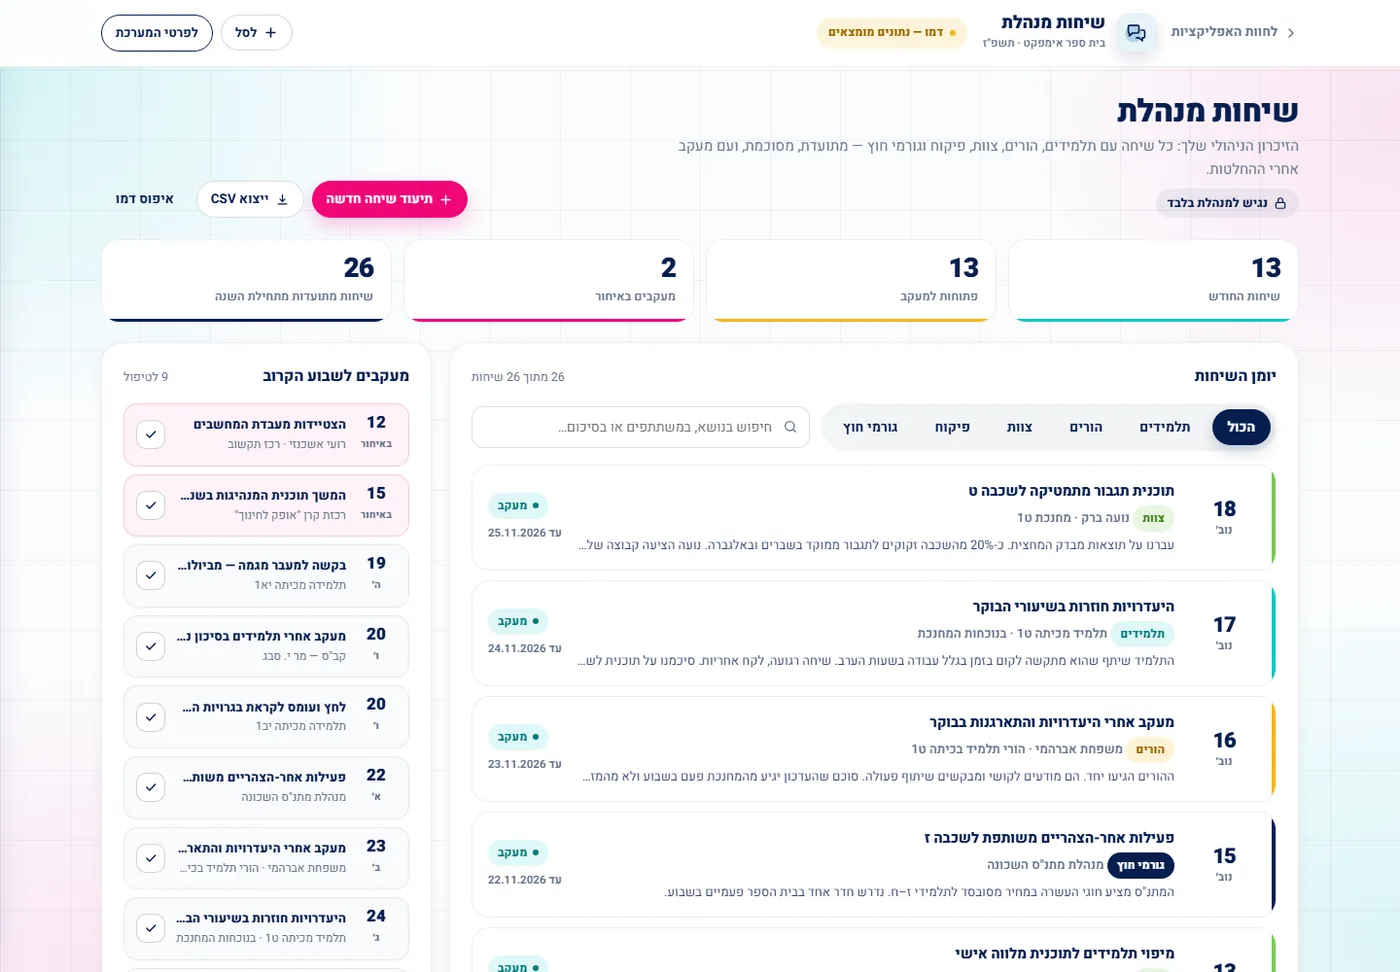
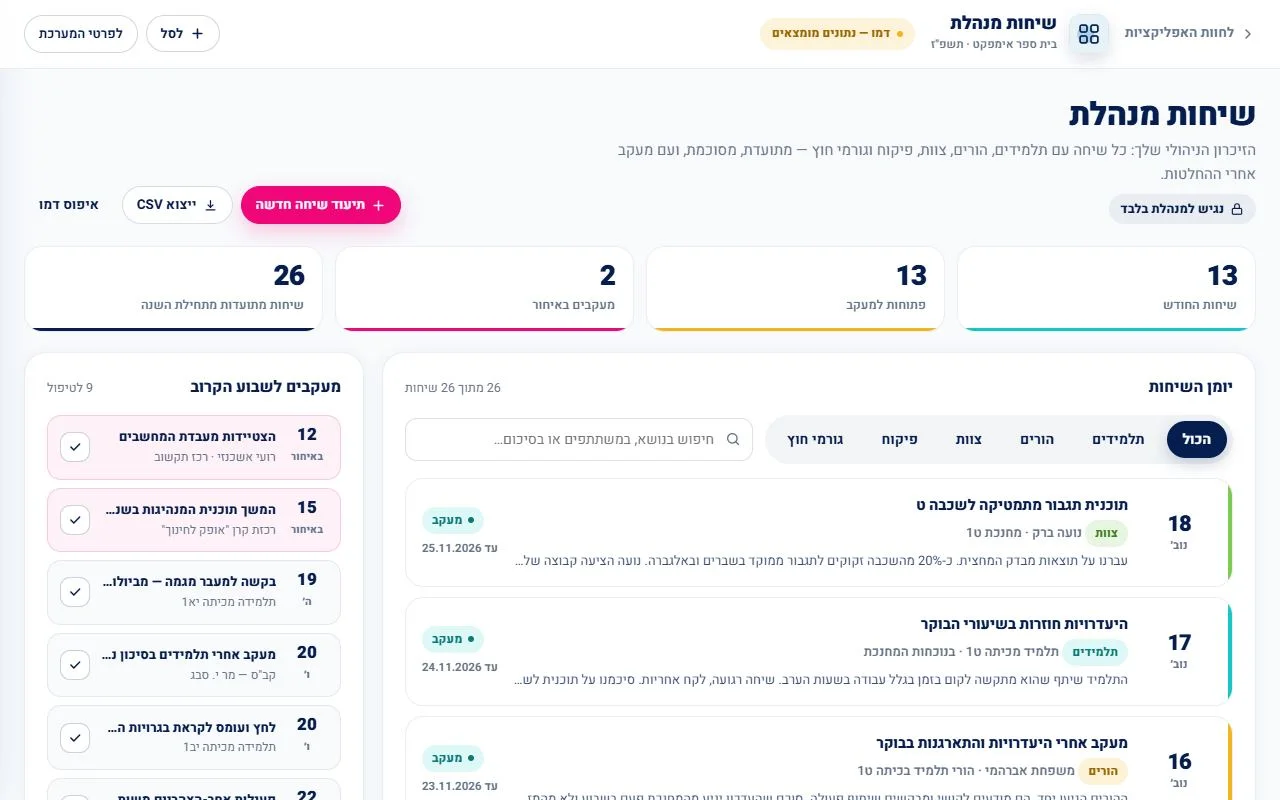
feat(education): כוכבות חוות האפליקציות — 5 מערכות מובילות
- עמוד החינוך, מקטע כלי ניהול: לצד חוות האפליקציות נוספו 5 כרטיסי
  מערכות מובילות (בחירת מיטל): פולס — מדד אקלים · שיחות מנהלת ·
  לוח גאנט בית-ספרי · תכנון משרות ותקנים · מערכת שעות ומילוי מקום.
- דף המוצר של החווה: סקשן חדש 'המערכות המובילות' עם עוגן פר מערכת,
  צילום ותיאור מהקטלוג; הכרטיסים בעמוד החינוך מקשרים אליו.
- צילום חדש למערכת שעות ומילוי מקום (לא היה לה דמו) — נבנה בשפת
  החווה מעולם 'בית ספר אימפקט', מסומן 'דמו — נתונים מומצאים'.
  מקור: pages/demo-timetable.html בריפו המקומי.

diff --git a/site/products/apps-farm.html b/site/products/apps-farm.html
@@ -14,7 +14,8 @@
 <link rel="preconnect" href="https://fonts.gstatic.com" crossorigin>
 <link href="https://fonts.googleapis.com/css2?family=Heebo:wght@300;400;500;600;700;800;900&display=swap" rel="stylesheet">
 <link rel="stylesheet" href="product.css">
-<style>:root{--accent:#061E4F}</style>
+<style>:root{--accent:#061E4F}
+#pulse,#conversations,#gantt,#positions,#timetable{scroll-margin-top:90px}</style>
 </head>
 <body>
 
@@ -81,20 +82,44 @@
   <div class="wrap">
     <div class="psec-head">
       <div class="psec-label">מבפנים</div>
-      <h2>הקטלוג — ושתי מערכות מתוכו</h2>
+      <h2>הקטלוג</h2>
     </div>
     <div class="pgal"><figure>
         <div class="pshot"><img src="../../public/products/apps-farm/catalog.webp" alt="כל המערכות במקום אחד" loading="lazy"></div>
         <figcaption><b>כל המערכות במקום אחד</b> — 63 כלים ב־11 תחומים, עם חיפוש, תגיות ולוגו ייחודי לכל מערכת. מסמנים מה מעניין ומרכיבים סל.</figcaption>
-      </figure>
-      <figure>
-        <div class="pshot"><img src="../../public/products/apps-farm/gantt.webp" alt="לוח גאנט בית-ספרי" loading="lazy"></div>
-        <figcaption><b>לוח גאנט בית-ספרי</b> — כל השנה בשורה אחת: מה קורה, למי, ומי אחראי — כולל אירועים ומטלות ארציים של משרד החינוך, מסומנים בנפרד מאירועי בית הספר.</figcaption>
-      </figure>
-      <figure>
-        <div class="pshot"><img src="../../public/products/apps-farm/conversations.webp" alt="שיחות מנהלת" loading="lazy"></div>
-        <figcaption><b>שיחות מנהלת</b> — הזיכרון הניהולי: כל שיחה עם תלמידים, הורים, צוות, פיקוח וגורמי חוץ — מתועדת, מסוכמת, ועם מעקב אחרי ההחלטות.</figcaption>
       </figure></div>
+  </div>
+</section>
+
+<section class="psec" style="padding-top:0">
+  <div class="wrap">
+    <div class="psec-head">
+      <div class="psec-label">המערכות המובילות</div>
+      <h2>חמש שכדאי להכיר <em>קודם</em></h2>
+      <p class="psec-sub">אלה המערכות שמנהלות מבקשות לראות ראשונות בכל הדגמה. כל המסכים כאן — מתוך עולם הדמו של "בית ספר אימפקט", עם נתונים מומצאים.</p>
+    </div>
+    <div class="pgal">
+      <figure id="pulse">
+        <div class="pshot"><img src="../../public/products/apps-farm/pulse.webp" alt="פולס — מדד אקלים" loading="lazy"></div>
+        <figcaption><b>פולס — מדד אקלים</b> — שאלון קצר שרץ בקביעות ומודד איך באמת מרגישים בבית הספר. במקום לגלות בעיה בסוף שנה — רואים אותה מתפתחת ומגיבים בזמן.</figcaption>
+      </figure>
+      <figure id="conversations">
+        <div class="pshot"><img src="../../public/products/apps-farm/conversations.webp" alt="שיחות מנהלת" loading="lazy"></div>
+        <figcaption><b>שיחות מנהלת</b> — הזיכרון הניהולי: כל שיחה עם תלמידים, הורים, צוות, פיקוח וגורמי חוץ — מתועדת, מסוכמת ב-AI, ועם מעקב אחרי ההחלטות.</figcaption>
+      </figure>
+      <figure id="gantt">
+        <div class="pshot"><img src="../../public/products/apps-farm/gantt.webp" alt="לוח גאנט בית-ספרי" loading="lazy"></div>
+        <figcaption><b>לוח גאנט בית-ספרי</b> — כל השנה שבוע-אחרי-שבוע: נושא לשעת חינוך, אירועים, מבחנים וימי שיא — כולל נושאים ומטלות רוחביים של הרשות ומשרד החינוך, עם דיווח ביצוע שקוף כלפי מעלה.</figcaption>
+      </figure>
+      <figure id="positions">
+        <div class="pshot"><img src="../../public/products/apps-farm/positions.webp" alt="תכנון משרות ותקנים" loading="lazy"></div>
+        <figcaption><b>תכנון משרות ותקנים</b> — תקן לכל מקצוע, משרות בפועל, פערים לגיוס. תחזית לשנה הבאה וסוכן AI שמציע איך לסגור פערים. תכנון כוח-אדם בשקיפות.</figcaption>
+      </figure>
+      <figure id="timetable">
+        <div class="pshot"><img src="../../public/products/apps-farm/timetable.webp" alt="מערכת שעות ומילוי מקום" loading="lazy"></div>
+        <figcaption><b>מערכת שעות ומילוי מקום</b> — מורה נעדר? בוחרים ממלא מקום, המערכת מעדכנת את הלוח ושולחת את השינויים לצוות בוואטסאפ — כולל תיעוד שעות מ״מ לשכר. מה שהיה שעה של טלפונים נגמר בדקה.</figcaption>
+      </figure>
+    </div>
   </div>
 </section>
 

diff --git a/education/index.html b/education/index.html
@@ -2704,6 +2704,46 @@ footer::after{
           <span class="dprod-more">לדף המוצר <span aria-hidden="true">&#8592;</span></span>
         </div>
       </a>
+      <a class="dprod" href="/site/products/apps-farm.html#pulse">
+        <div class="dprod-thumb"><img src="/public/products/apps-farm/pulse.webp" alt="פולס — מדד אקלים" loading="lazy"></div>
+        <div class="dprod-body">
+          <h4>פולס — מדד אקלים</h4>
+          <p>סקר אקלים קצר שרץ בקביעות — רואים מגמות בזמן אמת, לא בסוף שנה.</p>
+          <span class="dprod-more">להצצה <span aria-hidden="true">&#8592;</span></span>
+        </div>
+      </a>
+      <a class="dprod" href="/site/products/apps-farm.html#conversations">
+        <div class="dprod-thumb"><img src="/public/products/apps-farm/conversations.webp" alt="שיחות מנהלת" loading="lazy"></div>
+        <div class="dprod-body">
+          <h4>שיחות מנהלת</h4>
+          <p>כל שיחה מתועדת ומסוכמת ב-AI — הזיכרון הניהולי של בית הספר.</p>
+          <span class="dprod-more">להצצה <span aria-hidden="true">&#8592;</span></span>
+        </div>
+      </a>
+      <a class="dprod" href="/site/products/apps-farm.html#gantt">
+        <div class="dprod-thumb"><img src="/public/products/apps-farm/gantt.webp" alt="לוח גאנט בית-ספרי" loading="lazy"></div>
+        <div class="dprod-body">
+          <h4>לוח גאנט בית-ספרי</h4>
+          <p>השנה כולה שבוע-אחרי-שבוע — כולל מטלות הרשות ומשרד החינוך.</p>
+          <span class="dprod-more">להצצה <span aria-hidden="true">&#8592;</span></span>
+        </div>
+      </a>
+      <a class="dprod" href="/site/products/apps-farm.html#positions">
+        <div class="dprod-thumb"><img src="/public/products/apps-farm/positions.webp" alt="תכנון משרות ותקנים" loading="lazy"></div>
+        <div class="dprod-body">
+          <h4>תכנון משרות ותקנים</h4>
+          <p>תקנים, משרות בפועל, פערים וגיוס — תכנון כוח-אדם בשקיפות.</p>
+          <span class="dprod-more">להצצה <span aria-hidden="true">&#8592;</span></span>
+        </div>
+      </a>
+      <a class="dprod" href="/site/products/apps-farm.html#timetable">
+        <div class="dprod-thumb"><img src="/public/products/apps-farm/timetable.webp" alt="מערכת שעות ומילוי מקום" loading="lazy"></div>
+        <div class="dprod-body">
+          <h4>מערכת שעות ומילוי מקום</h4>
+          <p>מורה נעדר? שיבוץ בלחיצה, והלוח המעודכן נשלח לצוות בוואטסאפ.</p>
+          <span class="dprod-more">להצצה <span aria-hidden="true">&#8592;</span></span>
+        </div>
+      </a>
     </div>
   </article>
 
